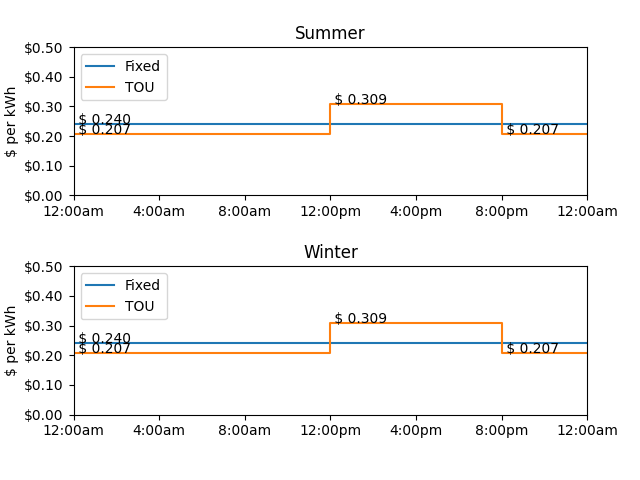
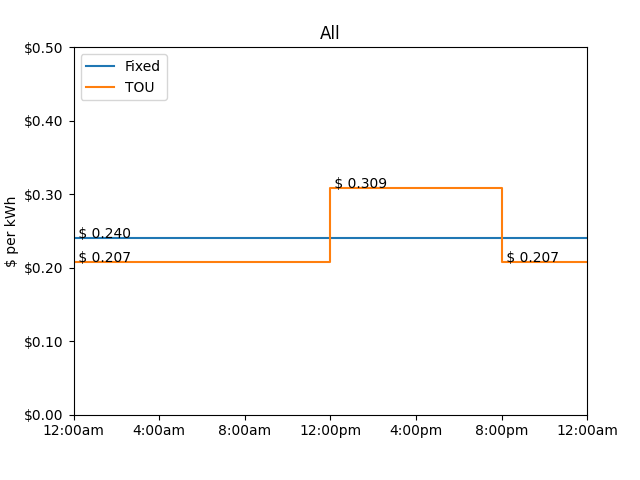
post code can more flexibly respond to seasons

diff --git a/Post1_Nevada.py b/Post1_Nevada.py
@@ -7,21 +7,27 @@ import numpy as np
 
 from fetch_rates import RatesData
 from fetch_times import TimesData
+from fetch_seasons import SeasonsData
 from rate_series import RateSegment, RateSeries
 
 def format_time(x, _):
     hm = "{:d}:{:02d}".format((int(((x-1)%12)+1)), int((x%1)*60))
     return hm + ("am" if (x%24)<12 else "pm")
 
-def display_state_charts(state: str, td: TimesData, rd: RatesData):
+def display_state_charts(state: str, td: TimesData, rd: RatesData, sd: SeasonsData):
 
-    fig, ax = plt.subplots(2)
+    state_seasons = list(sd.seasons_for_state(state))
+    fig, ax = plt.subplots(len(state_seasons))
     fig.tight_layout(pad = 3.0)
-    summer_axes = ax[0]
-    summer_axes.set_title("Summer")
 
-    winter_axes = ax[1]
-    winter_axes.set_title("Winter")
+    # subplots returns a list if >1,  but a single item if = 1, so this makes it a list for consistency
+    if(len(state_seasons) == 1): ax = [ax]
+
+    # this dictionary will come in handy later, when we have a season NAME, it will tell us which subplot belongs to that name
+    seasons_dict = {}
+    for i, state_season in enumerate(state_seasons):
+        seasons_dict[state_season] = i
+        ax[i].set_title(state_season)
 
     for subplot in ax:
         subplot.set_xlim([0, 24])
@@ -33,38 +39,36 @@ def display_state_charts(state: str, td: TimesData, rd: RatesData):
     
     state_plans = rd.plans_for_state(state)
     for plan in state_plans:
-        if(plan == "EV"): continue
-        seasons = rd.seasons_for_plan(state, plan)
+        if(plan == "EV"): continue  #right now we're just doing straight up TOU plans. 
+        
+        seasons = list(rd.seasons_for_plan(state, plan))
         for season in seasons:
             rs = RateSeries(state, season, plan, plan, td, rd) # double plan is weird
             x = rs.start_times()
-            x.append(24)
             y = rs.rates()
-            y.append(y[0])
+            
+            x.append(24) #make sure we have a data point at end of day to finish plot
+            y.append(y[0]) # make sure midnight (end of day) matches midnight (start of day) value
 
-            if(season == "Summer" or season == "All"):
-                summer_axes.step(x, y, where = "post", label = plan)
+            seasons_to_plot = [season] if season != "All" else state_seasons
+            for plot_season in seasons_to_plot:
+                subplot = ax[seasons_dict[plot_season]]
+                subplot.step(x, y, where = "post", label = plan)
                 for a,b in zip(x,y):
-                    if(a<24): summer_axes.annotate(f" ${b: 1.3f}", (a,b))
-                    
-            if(season == "Winter" or season == "Non-Summer" or season == "All"):
-                winter_axes.step(x, y, where = "post", label = plan)
-                for a,b in zip(x,y):
-                    if(a<24): winter_axes.annotate(f" ${b: 1.3f}", (a,b))
-
-
-    summer_axes.legend(loc = 'upper left')
-    winter_axes.legend(loc = 'upper left')
+                    if(a<24): subplot.annotate(f" ${b: 1.3f}", (a,b))
+                subplot.legend(loc = 'upper left')
 
     path = "output_" + state + ".png"
     plt.savefig(path)
+    plt.show()
 
 if __name__ == "__main__":
     rd = RatesData()
     td = TimesData()
+    sd = SeasonsData()
     states = ["NV", "CT", "MD"]
     for state in states:
-        display_state_charts(state, td, rd)
+        display_state_charts(state, td, rd, sd)
 
 
 

diff --git a/rate_series.py b/rate_series.py
@@ -21,14 +21,10 @@ class RateSeries:
     def _add_segments(self):
 #        pdb.set_trace()
         segs = []
-        print(self.state, self.plan_type, self.season)
         rate_dict = self.rd.rate_dictionary(self.state, self.plan_name, self.season)
-        print(rate_dict)
         periods = self.td.time_period_list(self.state, self.plan_type, self.season)
-        print(periods)
         if(len(periods) == 0): periods.append("All")
         for period in periods:
-            print(period)
             segments = self.td.time_segments_for_period(self.state, self.plan_type, self.season, period)
             for segment in segments:
                 seg = RateSegment(segment[0], segment[1], rate_dict[period], period)
